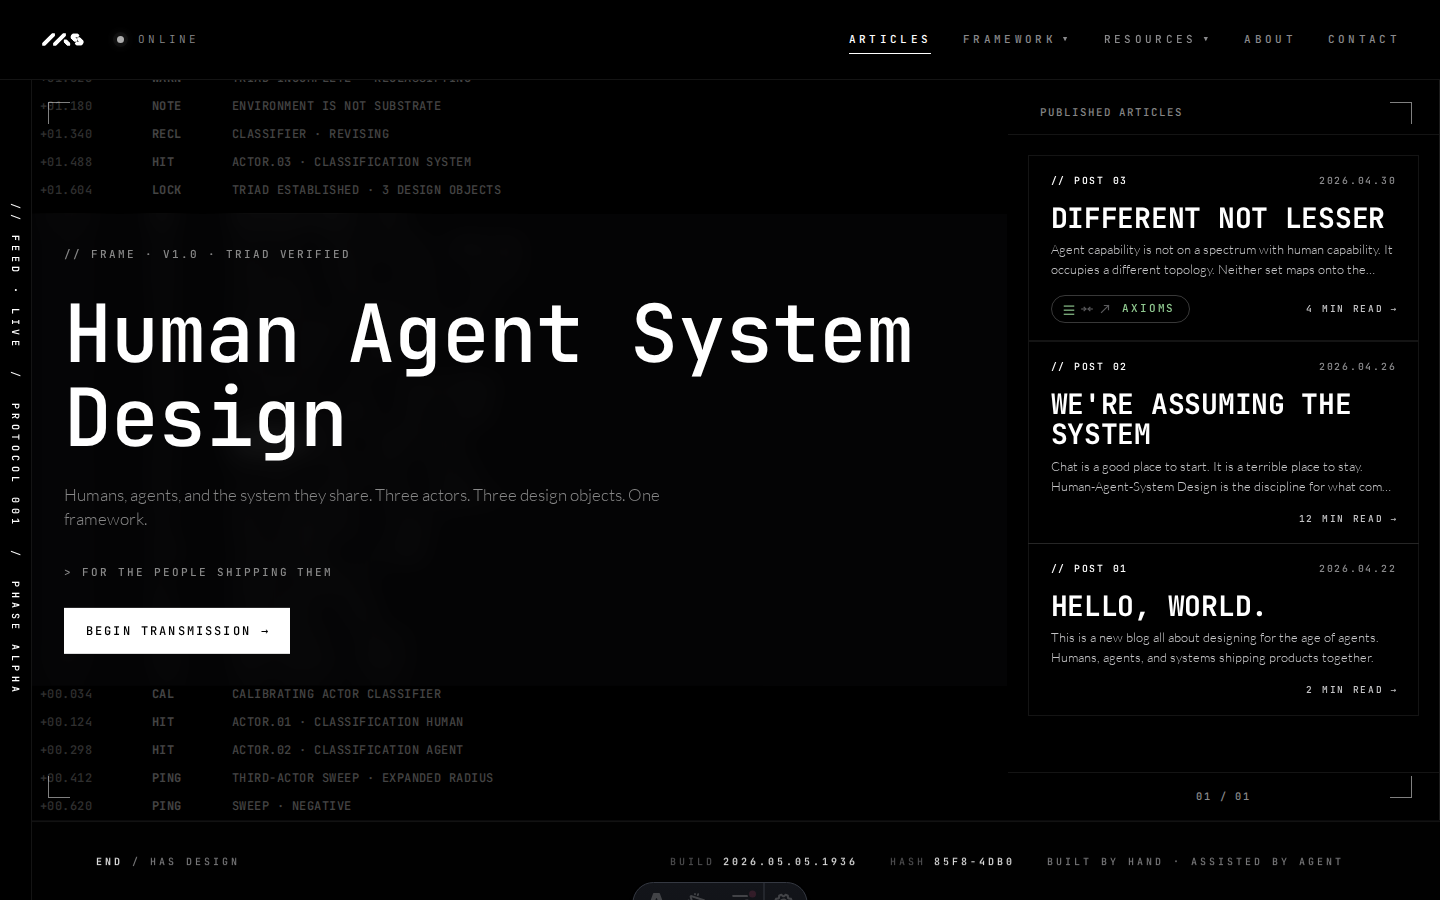
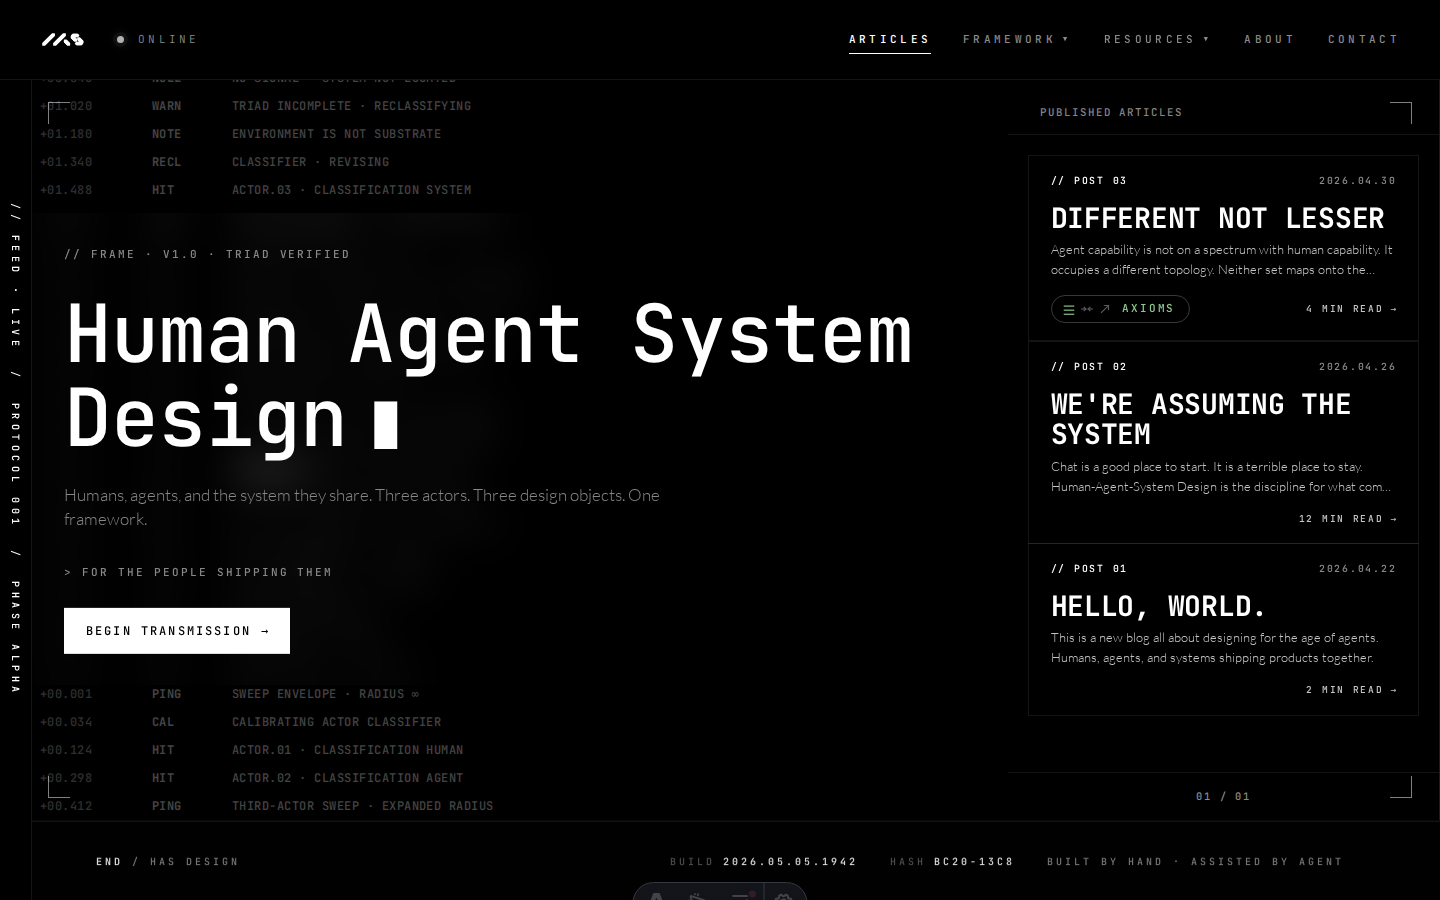
fix(hero): kill the black bar — glass is pure backdrop-blur, no fill
The rgba(8,8,10,0.55) fill on .frame-block was the black bar.
Even at 55% alpha against the dark column it darkened the
lockup area into a visible rectangle that read as "a black bar
loading in." Glassmorphism doesn't need a color fill on a dark
background — the blur alone is the glass effect.

- background: transparent (always, no rgba fill).
- backdrop-filter: blur(20px) when revealed; none during the
  pre-reveal hold.

Scan lines behind the lockup are softened into a frost; the
message renders sharp on top. No rectangle of darkening at any
point in the load.

diff --git a/tests/ili-818-verify.spec.ts b/tests/ili-818-verify.spec.ts
@@ -32,9 +32,9 @@ test.describe('ILI-818 — scan cycle + glass lockup', () => {
     const lineCount = await page.locator('.scan-stack .scan-line').count();
     expect(lineCount).toBeGreaterThanOrEqual(28);
 
-    // Frame-block has no glass background while booting.
-    const bg = await page.locator('.frame-block').evaluate((el) => getComputedStyle(el).backgroundColor);
-    expect(bg).toMatch(/rgba\(0,\s*0,\s*0,\s*0\)|transparent/);
+    // Frame-block has no glass blur while booting (pure transparent box).
+    const bf = await page.locator('.frame-block').evaluate((el) => getComputedStyle(el).backdropFilter || (el as any).webkitBackdropFilter || 'none');
+    expect(bf).toBe('none');
 
     // Frame-line hidden.
     const frameLineOpacity = await page.locator('.frame-block .frame-line').first().evaluate((el) => Number(getComputedStyle(el).opacity));
@@ -50,20 +50,21 @@ test.describe('ILI-818 — scan cycle + glass lockup', () => {
 
     const state = await page.evaluate(() => {
       const lines = Array.from(document.querySelectorAll('.frame-block .frame-line'));
+      const fb = document.querySelector('.frame-block') as HTMLElement | null;
       return {
         total: lines.length,
         revealed: lines.filter((l) => l.classList.contains('is-visible')).length,
         opacities: lines.map((l) => Number(getComputedStyle(l).opacity)),
-        revealing: document.querySelector('.frame-block')?.classList.contains('is-revealing') ?? false,
-        bg: getComputedStyle(document.querySelector('.frame-block')!).backgroundColor,
+        revealing: fb?.classList.contains('is-revealing') ?? false,
+        backdrop: fb ? (getComputedStyle(fb).backdropFilter || (fb as any).webkitBackdropFilter || 'none') : 'none',
       };
     });
     expect(state.total).toBe(FRAME_LINES_COUNT);
     expect(state.revealed).toBe(FRAME_LINES_COUNT);
     for (const o of state.opacities) expect(o).toBe(1);
     expect(state.revealing).toBe(true);
-    // Glass background is now visible (rgba with alpha > 0).
-    expect(state.bg).toMatch(/rgba?\(/);
+    // Glass blur is now active.
+    expect(state.backdrop).toContain('blur');
 
     // Wide divider is gone, cursor is on the H1.
     expect(await page.locator('.frame-rule').count()).toBe(0);
@@ -134,8 +135,8 @@ test.describe('ILI-818 — scan cycle + glass lockup', () => {
     const frameLineOpacity = await page.locator('.frame-block .frame-line').first().evaluate((el) => Number(getComputedStyle(el).opacity));
     expect(frameLineOpacity).toBe(1);
 
-    const bg = await page.locator('.frame-block').evaluate((el) => getComputedStyle(el).backgroundColor);
-    expect(bg).toMatch(/rgba?\(/);
+    const bf = await page.locator('.frame-block').evaluate((el) => getComputedStyle(el).backdropFilter || (el as any).webkitBackdropFilter || 'none');
+    expect(bf).toContain('blur');
 
     await context.close();
   });

diff --git a/src/styles/homepage.css b/src/styles/homepage.css
@@ -452,9 +452,10 @@ body.hero-sequence-play .protocol-chip.is-typed {
 .scan-line .scan-d { color: #888888; }
 
 /* Lockup floats above the scan-stack, centered vertically.
-   Glassmorphic background (semi-transparent + backdrop blur)
-   keeps the message legible against the scrolling scan-lines
-   without forming a hard black bar. */
+   Glassmorphic — pure backdrop blur with a transparent
+   background. No rgba fill, so no "black bar" feeling; the
+   scan-lines behind the lockup are just blurred into a soft
+   frost while the message stays sharp on top. */
 .frame-block {
   position: absolute;
   top: 50%;
@@ -462,32 +463,29 @@ body.hero-sequence-play .protocol-chip.is-typed {
   right: 0;
   transform: translateY(-50%);
   z-index: 2;
-  background: rgba(8, 8, 10, 0.55);
-  backdrop-filter: blur(14px);
-  -webkit-backdrop-filter: blur(14px);
+  background: transparent;
+  backdrop-filter: blur(20px);
+  -webkit-backdrop-filter: blur(20px);
   padding: 32px 64px;
   display: flex;
   flex-direction: column;
   align-items: flex-start;
   transition:
-    background 400ms ease-out,
     backdrop-filter 400ms ease-out,
     -webkit-backdrop-filter 400ms ease-out;
 }
 /* During initial load (before the lockup is ready to write
-   in), the glass bar is invisible — no background, no blur.
-   The orchestrator adds .is-revealing when it's ready,
-   transitioning the glass into view before the frame-lines
-   start scanning in. */
+   in), the glass is invisible — no blur, no fill, just the
+   transparent box with no visual presence. The orchestrator
+   adds .is-revealing when it's ready, transitioning the blur
+   in before the frame-lines start scanning. */
 body.has-hero-frame-play .frame-block {
-  background: transparent;
   backdrop-filter: none;
   -webkit-backdrop-filter: none;
 }
 body.has-hero-frame-play .frame-block.is-revealing {
-  background: rgba(8, 8, 10, 0.55);
-  backdrop-filter: blur(14px);
-  -webkit-backdrop-filter: blur(14px);
+  backdrop-filter: blur(20px);
+  -webkit-backdrop-filter: blur(20px);
 }
 
 /* Frame-line wrapper — same reveal as .scan-line, taller
